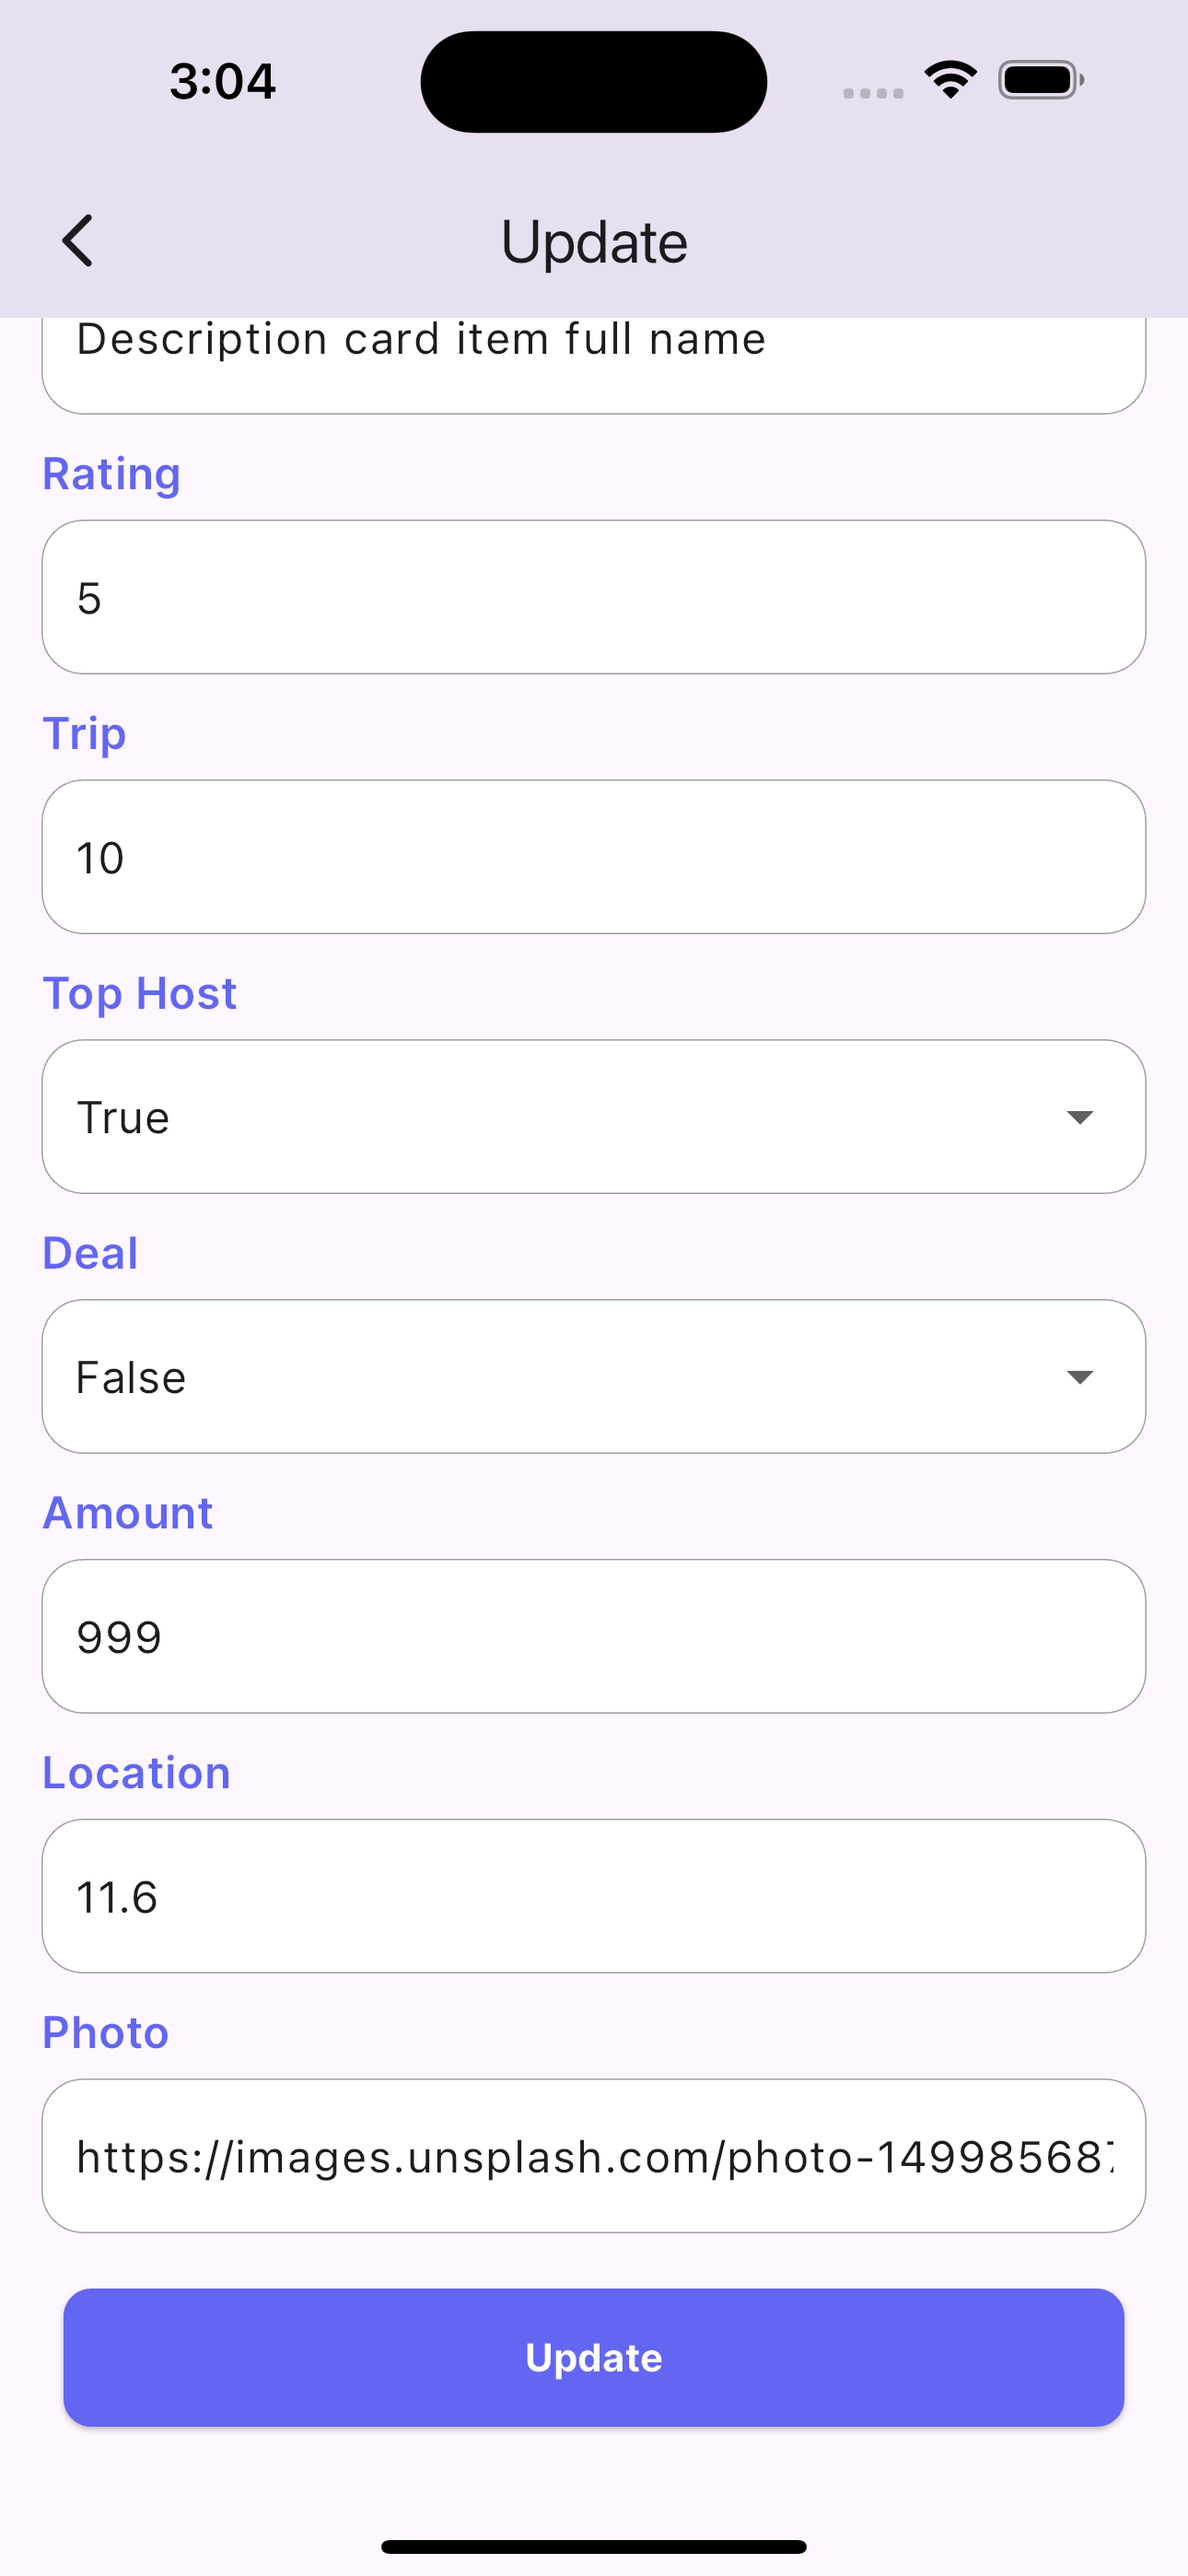
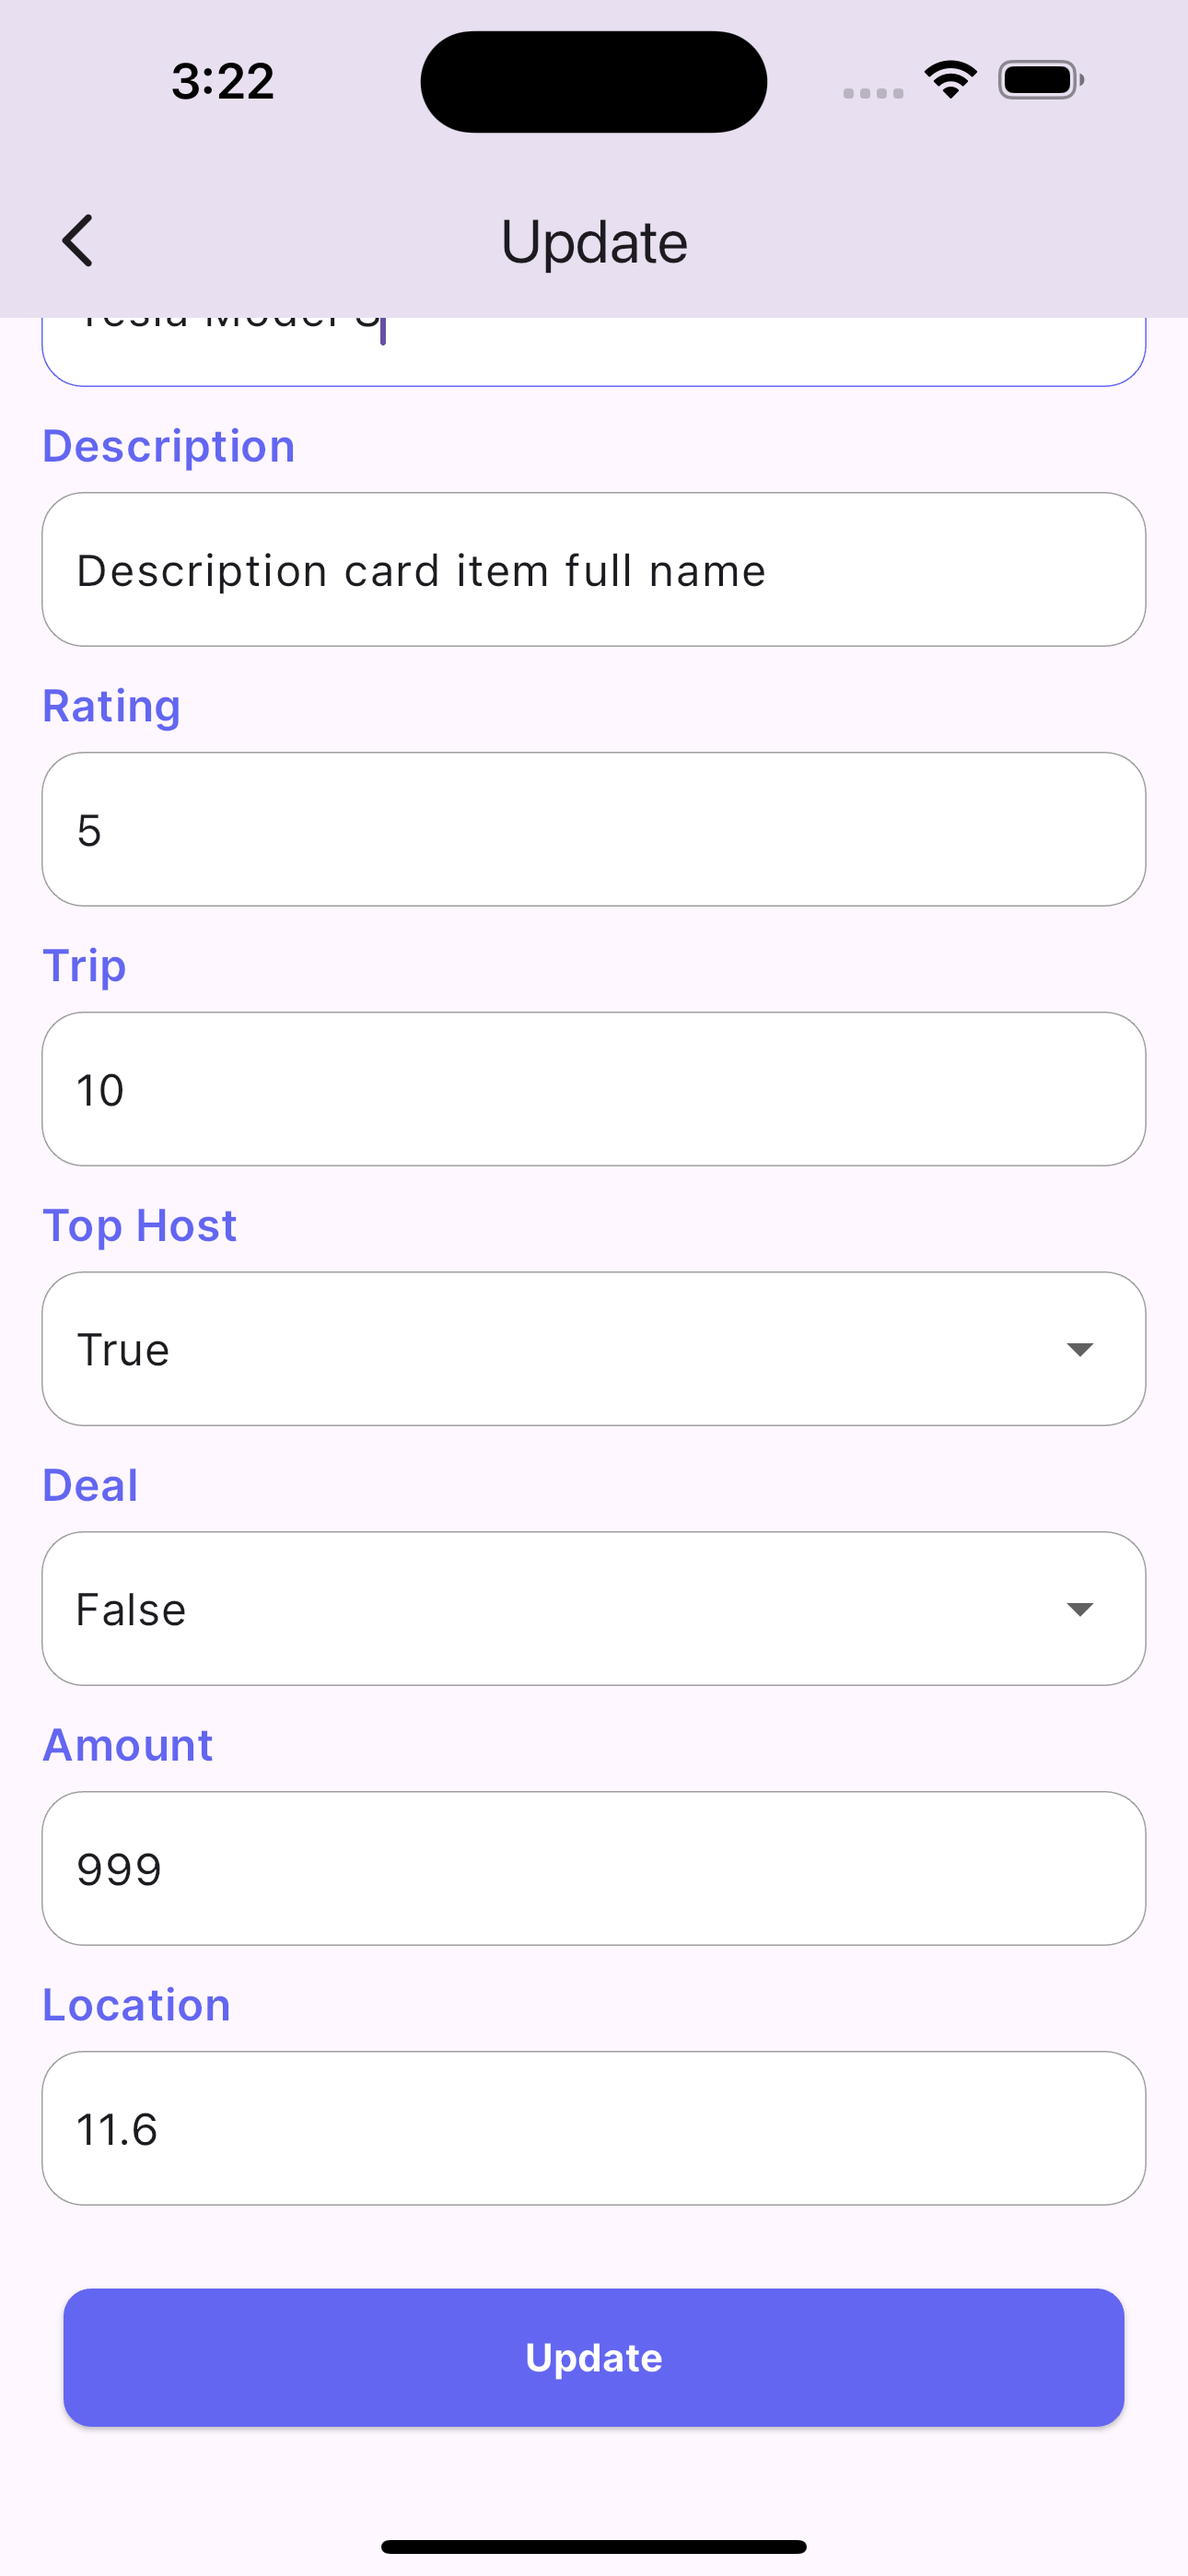
refactored update screen

diff --git a/lib/features/trips/presentation/pages/update_trip_screen.dart b/lib/features/trips/presentation/pages/update_trip_screen.dart
@@ -23,9 +23,6 @@ class UpdateTripScreen extends ConsumerWidget {
     final countController = TextEditingController(text: trip.count);
     final amountController = TextEditingController(text: trip.amount);
     final locationController = TextEditingController(text: trip.location);
-    final pictureController = TextEditingController(
-        text:
-            'https://images.unsplash.com/photo-1499856871958-5b9627545d1a?auto=format&fit=crop&q=60&w=500&ixlib=rb-4.0.3&ixid=M3wxMjA3fDB8MHxleHBsb3JlLWZlZWR8MXx8fGVufDB8fHx8fA%3D%3D');
     List<String> pictures = [];
     bool selectedDeal = trip.deal;
     bool selectedTopHost = trip.topHost;
@@ -215,13 +212,6 @@ class UpdateTripScreen extends ConsumerWidget {
                   SizedBox(
                     height: 10.h,
                   ),
-                  CustomTextFormField(
-                    headingTitle: 'Photo',
-                    controller: pictureController,
-                    keyboardType: TextInputType.text,
-                    maxLine: 1,
-                    fillColor: Colors.white,
-                  ),
                   SizedBox(
                     height: 20.h,
                   ),
@@ -230,7 +220,7 @@ class UpdateTripScreen extends ConsumerWidget {
                     children: [
                       ElevatedButton(
                         onPressed: () {
-                          pictures.add(pictureController.text);
+                          pictures.add('assets/images/c1.png');
                           if (_formKey.currentState!.validate()) {
                             final newTrip = Trip(
                               id: trip.id,
